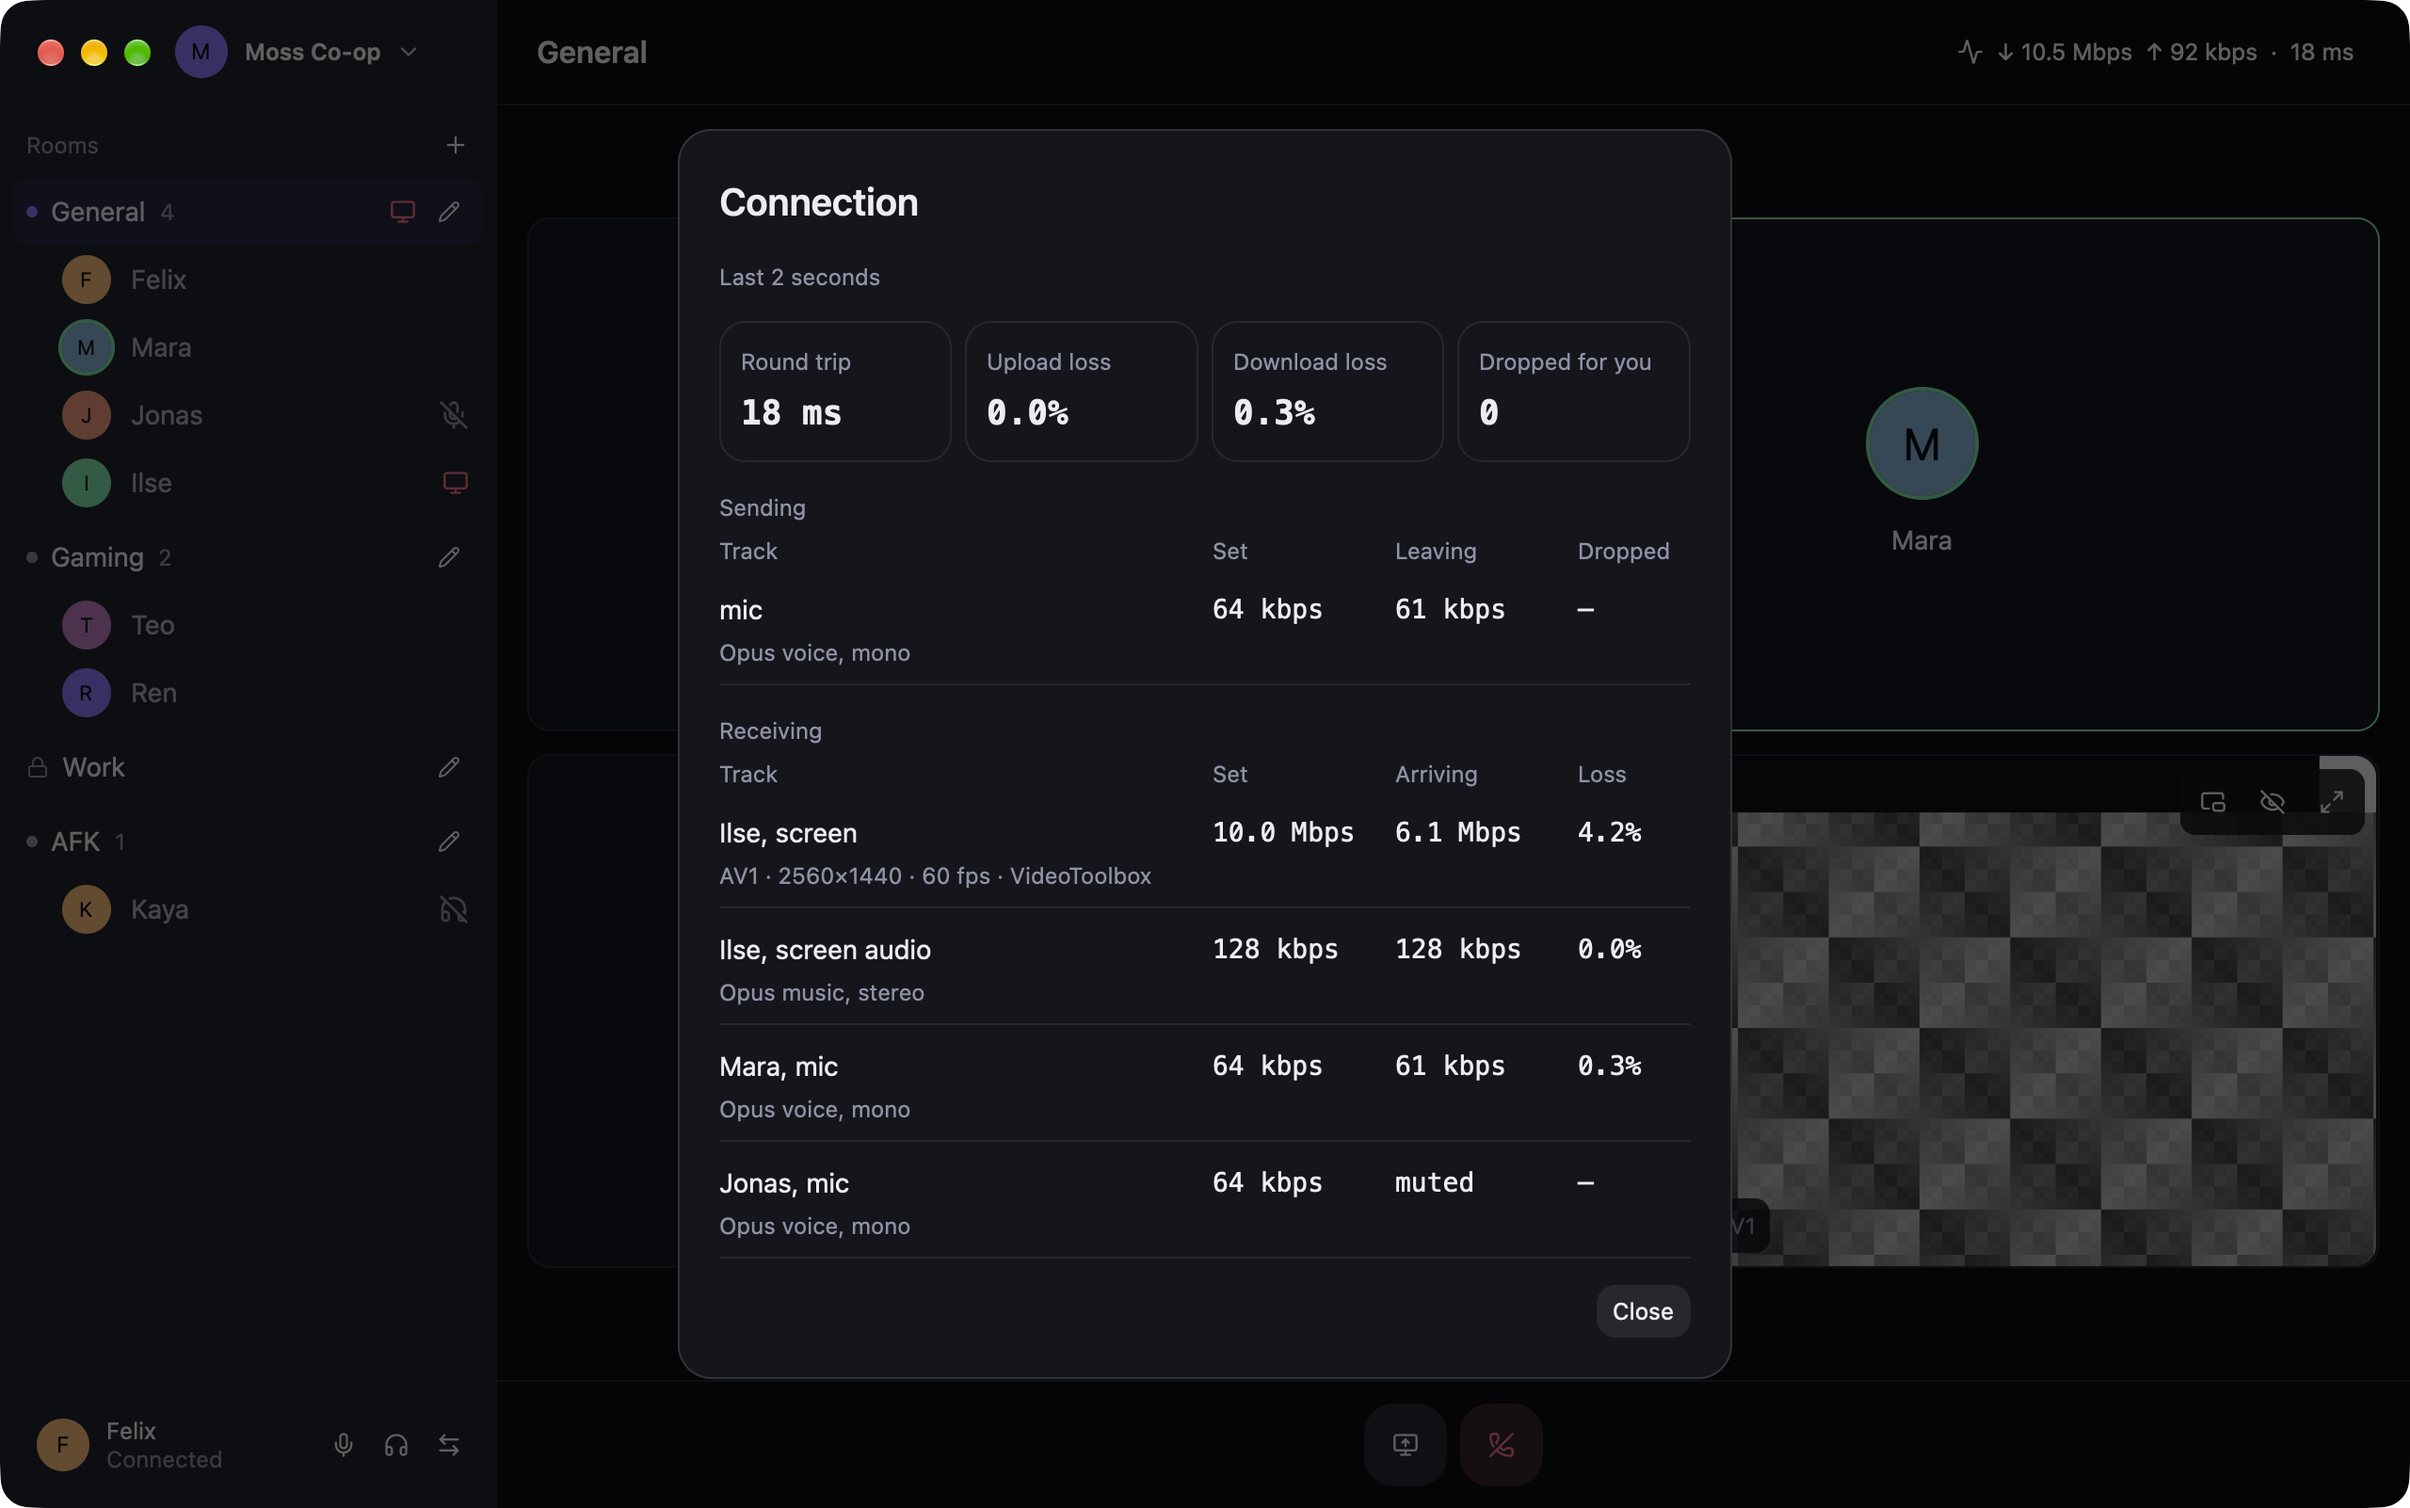
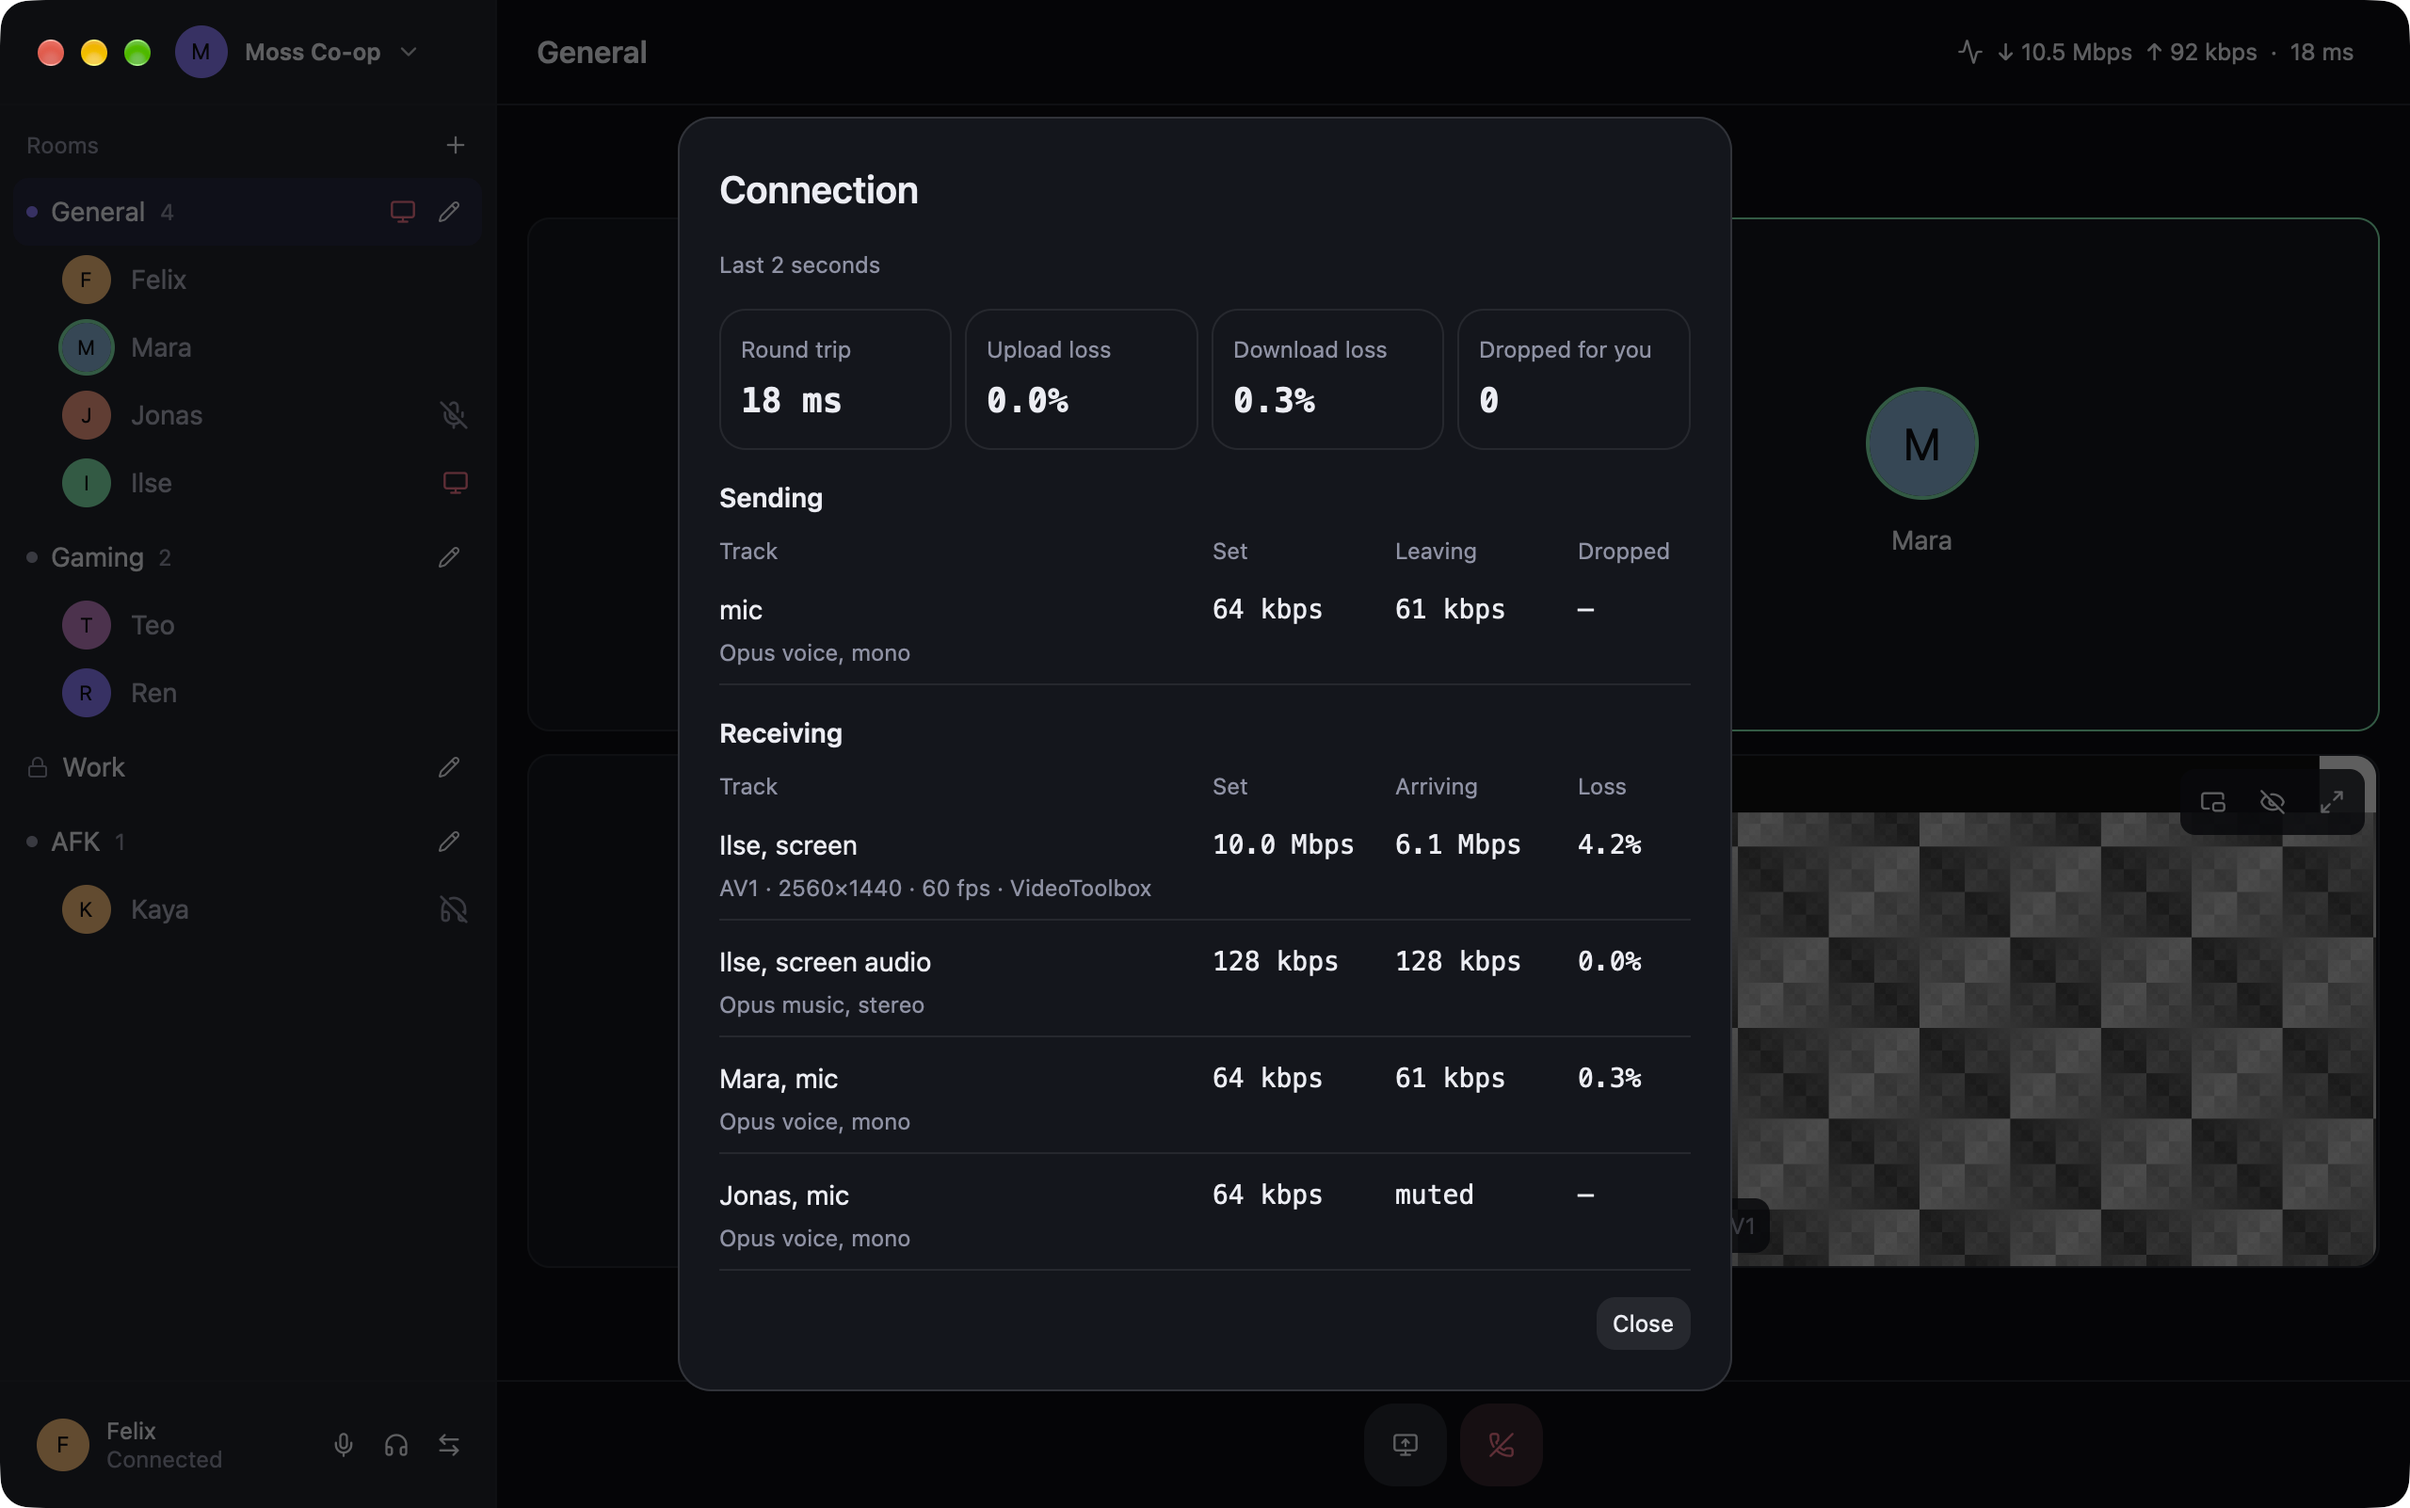
fix(client): set the connection dialog's section headings apart from its tables

diff --git a/crates/throcc-client/src/views/dialogs.rs b/crates/throcc-client/src/views/dialogs.rs
@@ -431,6 +431,13 @@ fn connection(app: &ThroccApp, cx: &mut Context<ThroccApp>) -> AnyElement {
             .child(div().w(px(90.)).child(rate))
             .child(div().w(px(60.)).child(last))
     };
+    let heading = |text: &'static str| {
+        div()
+            .pb_1()
+            .text_size(px(14.))
+            .font_weight(FontWeight::SEMIBOLD)
+            .child(text)
+    };
     let sending = health.sending.iter().map(|row| {
         table_row(
             row.label.to_owned(),
@@ -476,7 +483,7 @@ fn connection(app: &ThroccApp, cx: &mut Context<ThroccApp>) -> AnyElement {
                 .flex()
                 .flex_col()
                 .gap_1()
-                .child(section("Sending"))
+                .child(heading("Sending"))
                 .child(if health.sending.is_empty() {
                     caption("Nothing").into_any_element()
                 } else {
@@ -489,7 +496,7 @@ fn connection(app: &ThroccApp, cx: &mut Context<ThroccApp>) -> AnyElement {
                 .flex()
                 .flex_col()
                 .gap_1()
-                .child(section("Receiving"))
+                .child(heading("Receiving"))
                 .child(if health.receiving.is_empty() {
                     caption("Nothing").into_any_element()
                 } else {
